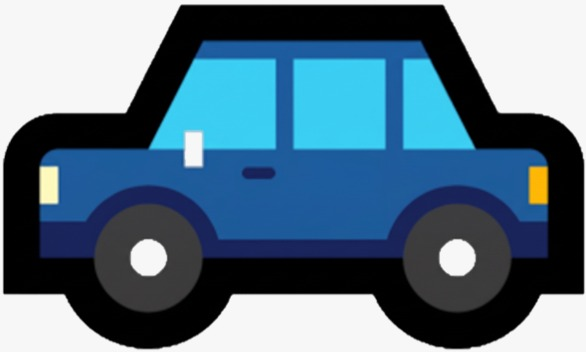
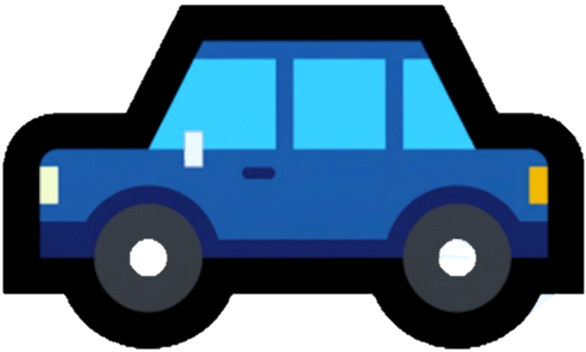
Add align-self to levels 2,4,7 and position-based win check

diff --git a/data/steps.js b/data/steps.js
@@ -8,7 +8,7 @@ const STEPS = [
   {
   id: 1,
   hint: "justify-content",
-  instruction: "Spread the cars along the road: the first at the start, the last at the end, with equal space between them.",
+  instruction: "Spread the vehicles along the road, and according to the parking rules (by colors).",
   cars: ["private", "taxi", "truck"],
   roadSolution: { "justify-content": "space-between" },
   carTypeSolutions: { private: {}, taxi: {}, truck: {} }
@@ -16,20 +16,20 @@ const STEPS = [
 
 {
   id: 2,
-  hint: "align-items",
-  instruction: "Pull all the cars over to the bottom edge of the road.",
+  hint: "align-items + align-self",
+  instruction: "Park all vehicles over to the bottom edge of the road, but leave the taxis waiting in the middle of the road.",
   cars: ["taxi", "truck", "private", "taxi"],
   roadSolution: {
     "align-items": "flex-end"
   },
-  carTypeSolutions: { private: {}, taxi: {}, truck: {} }
+  carTypeSolutions: { private: {}, taxi: {"align-self": "center"}, truck: {} }
 },
 
 {
     id: 3,
     hint: "justify-content + align-items",
     instruction:
-      "Line the cars up along the middle of the road, with the same gap before the first car, between every two cars, and after the last.",
+      "Line the vehicles up along the middle of the road, with the same gap before the first vehicle, between every two vehicles, and after the last.",
     cars: ["truck", "private", "taxi"],
     roadSolution: {
       "justify-content": "space-evenly",
@@ -44,17 +44,17 @@ const STEPS = [
 
   {
   id: 4,
-  hint: "flex-direction",
-  instruction: "The cars came in from the wrong side. Park them at the other end of the road, in reverse order.",
+  hint: "flex-direction + align-self",
+  instruction: "The vehicles came in from the wrong side. Park them at the other end of the road, in reverse order, and park the truck down to the bottom edge.",
   cars: ["taxi", "private", "truck"],
   roadSolution: { "flex-direction": "row-reverse" },
-  carTypeSolutions: { private: {}, taxi: {}, truck: {} }
+  carTypeSolutions: { private: {}, taxi: {}, truck: { "align-self": "flex-end"} }
 },
 
 {
   id: 5,
   hint: "flex-wrap",
-  instruction: "The row is so crowded that the cars are getting squeezed. Let them keep their size and continue onto a new row below.",
+  instruction: "The row is so crowded that the vehicles are getting squeezed. If you don't want your car to get scratched, let them keep their size and continue onto a new row below.",
   cars: ["private", "taxi", "truck", "taxi", "private", "truck", "taxi", "private"],
   roadSolution: { "flex-wrap": "wrap" },
   carTypeSolutions: { private: {}, taxi: {}, truck: {} }
@@ -63,7 +63,7 @@ const STEPS = [
     id: 6,
     hint: "align-items + flex-wrap",
     instruction:
-      "Nine cars won't fit in one row. Wrap them into two rows, with the first row on top, and pull each row down to the bottom of its half of the road.",
+      "9 vehicles won't fit in one row. Park them in two rows, with the first row on top, and position each row down to the bottom of its half of the road.",
     cars: ["truck", "taxi", "private", "taxi", "truck", "private", "private", "taxi", "truck"],
     roadSolution: {
       "flex-wrap": "wrap",
@@ -77,16 +77,16 @@ const STEPS = [
   },
   {
     id: 7,
-    hint: "flex-direction + justify-content",
+    hint: "flex-direction + justify-content + align-self",
     instruction:
-      "Stack the cars in a single column along the left side of the road, pushed all the way to the bottom, with the first car on top.",
+      "Park the vehicles in a single column along the left side of the road, pushed all the way to the bottom. The private car has to park in the middle of the road instead, at the same height as the rest of its column.",
     cars: ["private", "truck", "taxi"],
     roadSolution: {
       "flex-direction": "column",
       "justify-content": "flex-end"
     },
     carTypeSolutions: {
-      private: {},
+      private: {"align-self": "center"},
       taxi: {},
       truck: {}
     }
@@ -95,7 +95,7 @@ const STEPS = [
     id: 8,
     hint: "align-items + flex-direction + flex-wrap",
     instruction:
-      "Park the cars top to bottom in columns, starting a new column to the right whenever one fills up. The road splits into equal strips, one per column: push each column to the right edge of its strip.",
+      "Park the cars top to bottom in columns, starting a new column to the right whenever one fills up.",
     cars: ["taxi", "private", "truck", "private", "truck", "taxi", "private"],
     roadSolution: {
       "flex-direction": "column",

diff --git a/components/level-actions/level-actions.js b/components/level-actions/level-actions.js
@@ -5,62 +5,56 @@
 // via its button, a click outside it, or Escape).
 
 const MISMATCH_FINE_PER_PROP = 10;
-
-function buildDefaults(attributes) {
-  const defaults = {};
-  attributes.forEach((attr) => {
-    defaults[attr.prop] = String(attr.default);
-  });
-  return defaults;
-}
+const POSITION_TOLERANCE_PX = 1;
 
 const CONTAINER_DEFAULTS = buildDefaults(FlexAttributes.container);
 const ITEM_DEFAULTS = buildDefaults(FlexAttributes.item);
 
 // Some values are aliases of each other (e.g. "start"/"flex-start") - map
 // to a canonical form before comparing so alias pairs count as equal.
-function canonicalValue(value) {
-  return FlexAttributes.valueAliases[value] || value;
+
+
+
+function layoutCenter(element) {
+  return {
+    x: element.offsetLeft + element.offsetWidth / 2,
+    y: element.offsetTop + element.offsetHeight / 2
+  };
 }
 
-function countMismatches(actual, expected, defaults) {
-  const actualKeys = new Set(Object.keys(actual));
-  const expectedKeys = new Set(Object.keys(expected));
-
-  const sharedKeys = [...actualKeys].filter((key) => expectedKeys.has(key));
-  const missingKeys = [...expectedKeys].filter((key) => !actualKeys.has(key));
-  const extraKeys = [...actualKeys].filter((key) => !expectedKeys.has(key));
-
-  const sharedMismatches = sharedKeys.filter(
-    (key) => canonicalValue(actual[key]) !== canonicalValue(expected[key])
-  ).length;
-  const extraMismatches = extraKeys.filter(
-    (key) => canonicalValue(actual[key]) !== canonicalValue(defaults[key])
-  ).length;
-
-  return sharedMismatches + missingKeys.length + extraMismatches;
+function isSamePosition(a, b) {
+  return (
+    Math.abs(a.x - b.x) <= POSITION_TOLERANCE_PX &&
+    Math.abs(a.y - b.y) <= POSITION_TOLERANCE_PX
+  );
 }
 
-function computeMismatchFine(step) {
-  const containerMismatches = countMismatches(
-    FlexEditor.getContainerProps(),
-    step.roadSolution,
-    CONTAINER_DEFAULTS
-  );
+function countMisparkedCars(step) {
+  const cars = document.querySelectorAll("#road-cars .car");
+  const spots = Array.from(document.querySelectorAll("#road-parking .parking-spot"));
+  const freeSpotIndexes = new Set(spots.keys());
+  let misparked = 0;
+ 
+  cars.forEach((car, carIndex) => {
+    const carCenter = layoutCenter(car);
+    const spotIndex = [...freeSpotIndexes].find(
+      (i) =>
+        step.cars[i] === step.cars[carIndex] &&
+        isSamePosition(carCenter, layoutCenter(spots[i]))
+    );
+ 
+    if (spotIndex === undefined) {
+      misparked += 1;
+    } else {
+      freeSpotIndexes.delete(spotIndex);
+    }
+  });
+ 
+  return misparked;
+}
 
-  const types = Array.from(new Set(step.cars));
-  const carMismatches = types.reduce(
-    (sum, type) =>
-      sum +
-      countMismatches(
-        FlexEditor.getCarProps(type),
-        step.carTypeSolutions[type] || {},
-        ITEM_DEFAULTS
-      ),
-    0
-  );
-
-  return (containerMismatches + carMismatches) * MISMATCH_FINE_PER_PROP;
+function computeFine(step) {
+  return countMisparkedCars(step) * MISPARKED_FINE_PER_CAR;
 }
 
 function updateTotalDisplay(total) {

diff --git a/components/flex-editor/flex-editor.js b/components/flex-editor/flex-editor.js
@@ -144,20 +144,12 @@ function renderContainerField() {
     (props) => Road.applyContainerProps(props)
   );
 }
-
-/*Check if Car props are needed */
-function stepUsesCarProps(step) {
-  return Object.values(step.carTypeSolutions).some(
-    (props) => Object.keys(props).length > 0
-  );
-}
 function renderCarTypeFields(step) {
   const wrapper = document.getElementById("car-type-fields");
   wrapper.innerHTML = "";
   Object.keys(carSections).forEach((type) => delete carSections[type]);
 
-  const types = stepUsesCarProps(step) ? Array.from(new Set(step.cars)) : [];
-  wrapper.hidden = types.length === 0;
+  const types = Array.from(new Set(step.cars));
   types.forEach((type) => {
     const field = document.createElement("div");
     field.className = "flex-editor__field";

diff --git a/data/flex-attributes.js b/data/flex-attributes.js
@@ -100,17 +100,4 @@ window.FlexAttributes = {
       max: 10,
       step: 1
     }
-  ],
-
-  // Some select options are aliases of each other per the CSS Box
-  // Alignment spec (e.g. "start"/"end" behave the same as "flex-start"/
-  // "flex-end" in a flex container) - map each alias to its canonical
-  // value so comparisons treat them as equal. "auto" (align-self's own
-  // default) is treated as align-items' default ("stretch"), its
-  // effective rendered behavior in the common case.
-  valueAliases: {
-    start: "flex-start",
-    end: "flex-end",
-    auto: "stretch"
-  }
-};
+  ]};

diff --git a/components/flex-editor/flex-editor.css b/components/flex-editor/flex-editor.css
@@ -2,7 +2,6 @@
   flex: 0 0 380px;
   display: flex;
   flex-direction: column;
-  align-self: center;
   gap: 2.5rem;
   background: var(--text-light);
   border: 1px solid var(--green-light);
@@ -28,10 +27,6 @@
   display: flex;
   flex-direction: column;
   gap: 2.5rem;
-}
-
-.flex-editor__car-fields[hidden] {
-  display: none;
 }
 
 .flex-editor__label {
